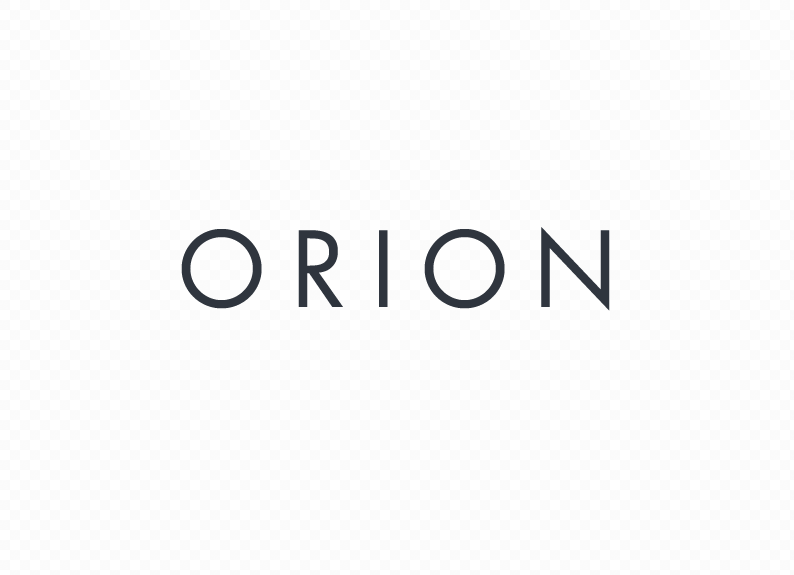
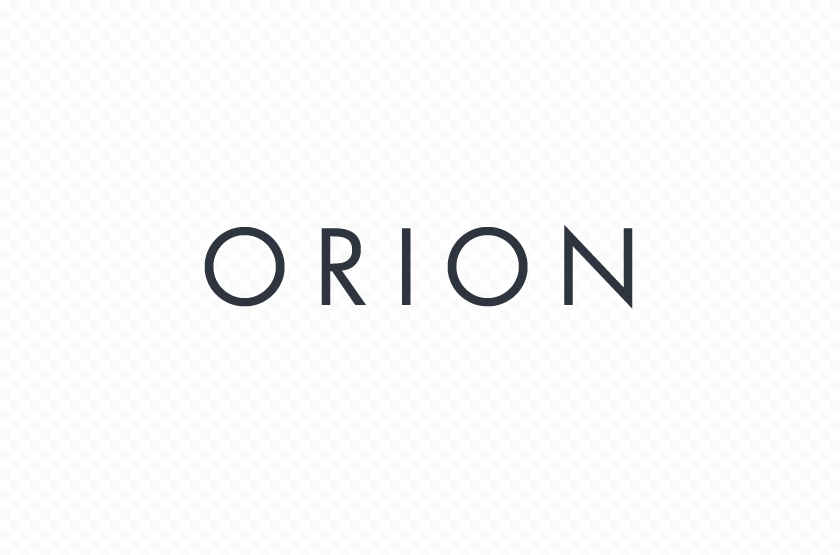
Tweaked CSS

diff --git a/dev/sass/style.scss b/dev/sass/style.scss
@@ -1341,8 +1341,6 @@ form {
 .portfolio-item__screens {
 	width:100%;
 	background:$grey; 
-	height:60em;
-	max-height:734px;
 	box-sizing:border-box;
 	overflow:hidden;
 	position:relative;
@@ -1361,7 +1359,7 @@ form {
 .portfolio-item__container {
 	height:100%;
 	position:relative;
-	transition:left 1.0s;
+	transition:left 1.0s; 
 }
 
 .portfolio-item__slide {
@@ -1372,17 +1370,17 @@ form {
 	float:left;
 	box-sizing:border-box;
 	padding:10px;
-	// left:110%; 
-	// transition:left 1.0s;
+	max-height:734px;
 }
 
-.portfolio-item__slide.scroll {
-	height:100%;
-}
+// .portfolio-item__slide.scroll {
+// 	height:60em;
+// }
 
 .portfolio-item__slide-inner {
 	width:100%;
 	height:100%;
+	max-height:594px;
 	border-radius:10px;
 	overflow:hidden;
 	position:relative;
@@ -1621,19 +1619,19 @@ form {
 		margin:28px auto;
 	}
 
-	.portfolio-item__screens {
-		height:73.4em;
-	}
-
 	.portfolio-item__screens.multiple {
 		.portfolio-item__slide {
-			padding-bottom:80px;
+			padding-bottom:80px; 
 		}
 	}
 
 	.portfolio-item__slide {
 		padding:60px;
 	}
+
+	// .portfolio-item__slide.scroll {
+	// 	height:73.4em;
+	// }
 
 
 }

diff --git a/dev/data/portfolio.js b/dev/data/portfolio.js
@@ -23,7 +23,7 @@ var portfolio = {
 				"scroll": true
 			},
 			{
-				"url": "img/portfolio/plusnet/assetbank_01.jpg",
+				"url": "img/portfolio/sideprojects/orion-framework/01.png",
 				"scroll": false
 			}
 		],
